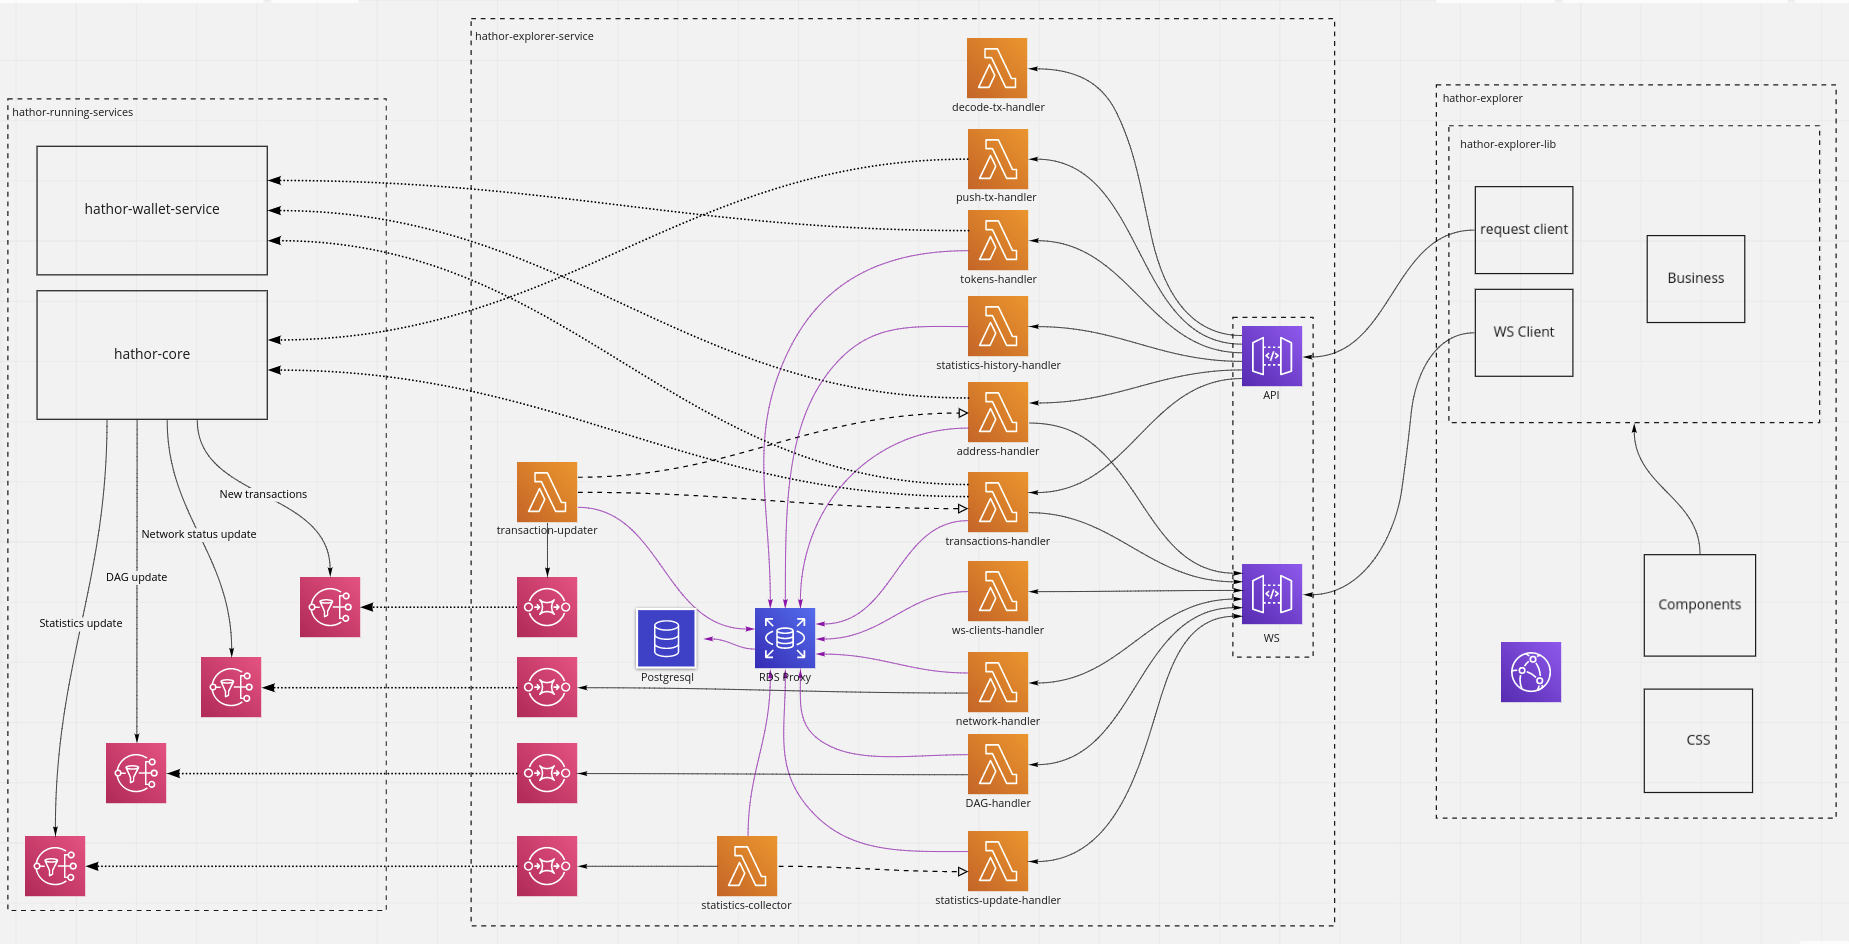
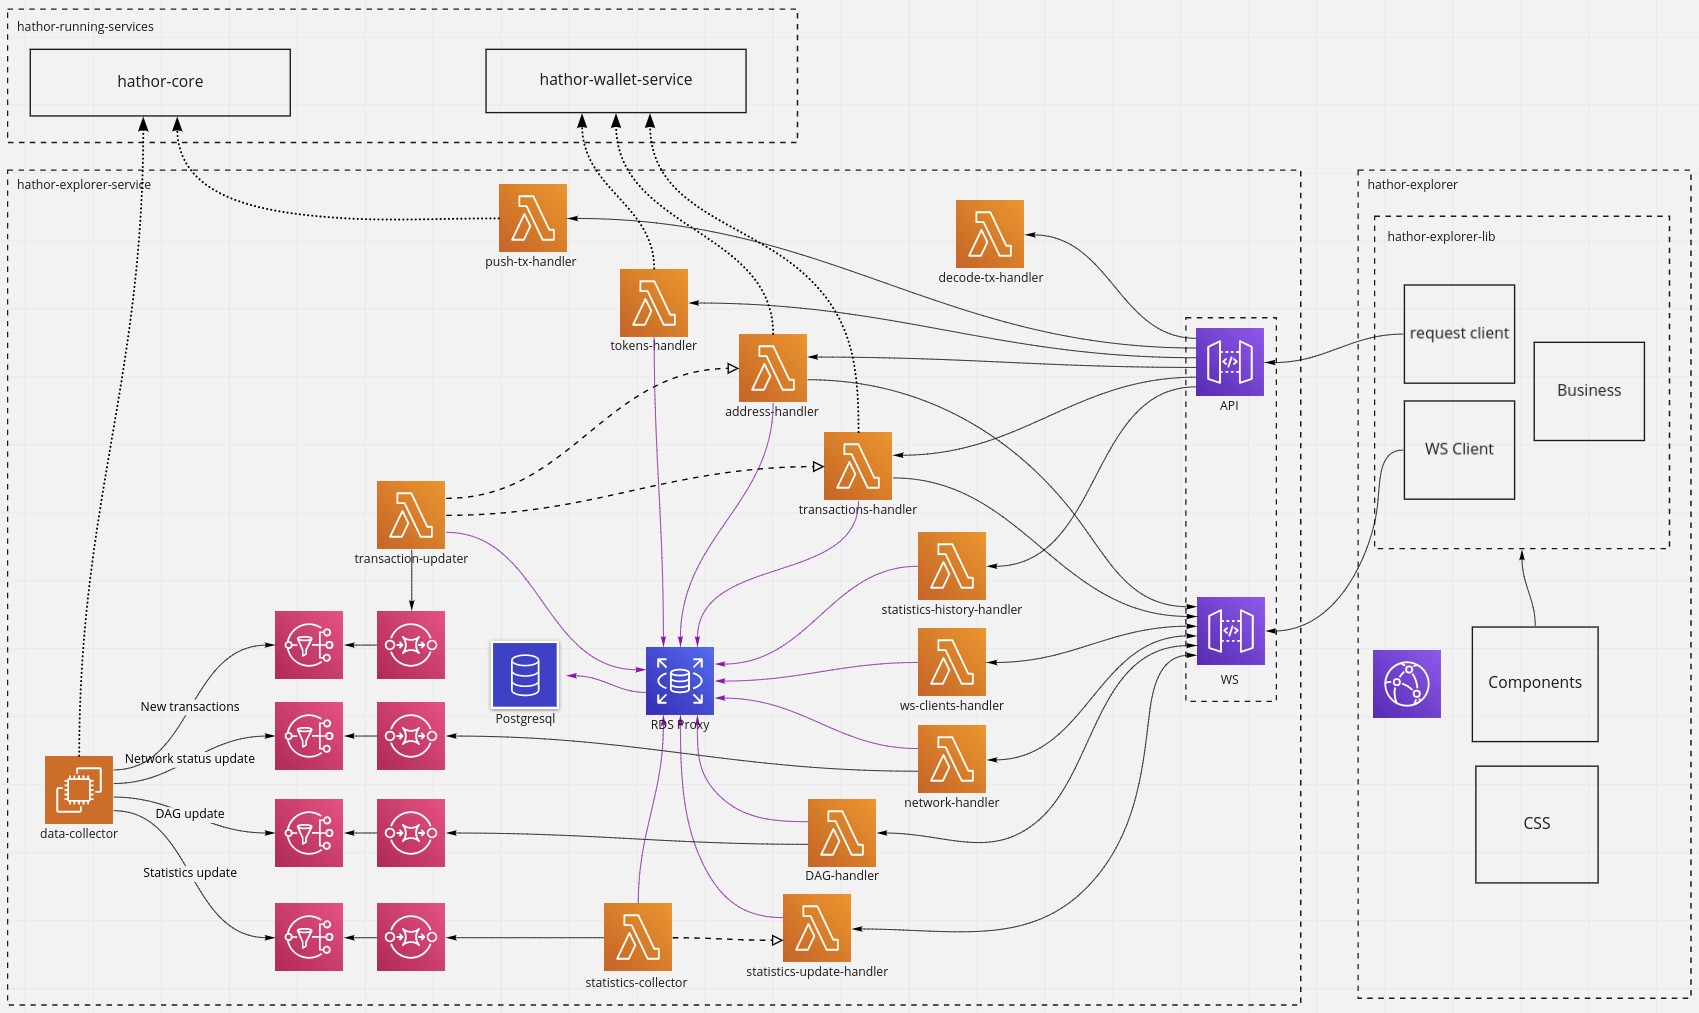
design: adds data-collector

diff --git a/hathor_explorer_v1.md b/hathor_explorer_v1.md
@@ -30,7 +30,7 @@ At first, this new project will be responsible for:
 Deploy will be done by serverless framework, except Mongodb that will run in a EC2 instance
 
 The following image illustrates how the parts of the services will interact:
-![image](https://user-images.githubusercontent.com/698586/117684298-3dc7b200-b18b-11eb-916f-d82209c8d614.png)
+![image](https://user-images.githubusercontent.com/698586/117825867-0cf88300-b246-11eb-914a-c528a5f83b5e.png)
 
 
 **Note:* `hathor-running-services` is an abstraction for services that are already currently running.
@@ -122,7 +122,7 @@ Web Socket Clients handler will handle connections and disconnections from WS on
 ### DAG handler
 [guide-level-explanation/hathor-explorer-service/dag-handler]: #guide-level-explanation/hathor-explorer-service/dag-handler
 
-Every new update on DAG data will be pushed to a SNS. A SQS will be fed from this SNS notifications.
+[`data-collector`](#guide-level-explanation/hathor-explorer-service/data-collector) will listen to DAG updates and send to a SNS. A SQS will be fed from this SNS notifications.
 DAG handler will consume this SQS and send a message for every connection stored in the database subscribed to dag topic.
 
 > **Estimated cost:** $1.50 monthly ($ 0.50 per million update, every second update).
@@ -130,7 +130,7 @@ DAG handler will consume this SQS and send a message for every connection stored
 ### Statistics update handler
 [guide-level-explanation/hathor-explorer-service/statistics-update-handler]: #guide-level-explanation/hathor-explorer-service/statistics-update-handler
 
-Every new update on statistics data will be pushed to a SNS. A SQS will be fed from this SNS notifications.
+[`data-collector`](#guide-level-explanation/hathor-explorer-service/data-collector) will listen to statistics updates and send to a SNS. A SQS will be fed from this SNS notifications.
 Statistics update handler will consume this SQS and send a message for every connection stored in the database subscribed to statistics topic.
 
 > **Estimated cost:** $1.50 monthly ($ 0.50 per million update, every second update).
@@ -138,7 +138,7 @@ Statistics update handler will consume this SQS and send a message for every con
 ### Network handler
 [guide-level-explanation/hathor-explorer-service/network-handler]: #guide-level-explanation/hathor-explorer-service/network-handler
 
-Every new update on network data will be pushed to a SNS. A SQS will be fed from this SNS notifications.
+[`data-collector`](#guide-level-explanation/hathor-explorer-service/data-collector) will listen to network updates and send to a SNS. A SQS will be fed from this SNS notifications.
 Network handler will consume this SQS and send a message for every connection stored in the database subscribed to network topic.
 Network data will also be improved, showing the overall network instead of a single node point of view.
 
@@ -147,13 +147,19 @@ Network data will also be improved, showing the overall network instead of a sin
 ### Statistics Collector
 [guide-level-explanation/hathor-explorer-service/statistics-collector]: #guide-level-explanation/hathor-explorer-service/statistics-collector
 
-Every new hashrate/statistics updates will be pushed to a SNS. A SQS will listen to this SNS and store it.
+[`data-collector`](#guide-level-explanation/hathor-explorer-service/data-collector) will listen to hashrate/statistics updates and send to a SNS. A SQS will listen to this SNS and store it.
 Statistics collector updater will consume this SQS and store data in the database.
 Statistics collector will also trigger [`statistics-update-handler`](#guide-level-explanation/hathor-explorer-service/statistics-update-handler) to update connected clients. 
 
-A new feature will be made on `hathor-core` to push statistics data to SNS. It can be in the same place where this data is pushed to WS.
-
 > **Estimated cost:** $ 0.90 per million transactions.
+
+### Data Collector
+[guide-level-explanation/hathor-explorer-service/data-collector]: #guide-level-explanation/hathor-explorer-service/data-collector
+
+Data Collector will connect to `full-node` WebSockets to listen for updates and send messages to SNS topics.
+For data which doesn't come from WebSocket, polling will be used. 
+
+> **Estimated cost:** $ 14 monthly (`t3.small`).
 ### API gateway
 [guide-level-explanation/hathor-explorer-service/api-gateway]: #guide-level-explanation/hathor-explorer-service/api-gateway
 
@@ -174,7 +180,7 @@ The existing project will not have any big visual modification except by network
 
 Furthermore business logic will be extracted from React components and API calls will be modified, if needed, to fit the new responses from new [guide-level-explanation/hathor-explorer-service](#guide-level-explanation/hathor-explorer-service)
 
-> **Estimated total monthly cost:** $ 62.00 with a huge margin of accesses
+> **Estimated total monthly cost:** $ 76.00 with a huge margin of accesses
 
 # Reference-level explanation
 [reference-level-explanation]: #reference-level-explanation
@@ -480,7 +486,7 @@ Cache on API GW will use `hash` as key.
 
 **SQS:** `hathor-explorer-service-transactions`
 
-**`hathor-core`:** Send Transaction to `SNS` in the following format:
+**`data-collector`:** Send Transaction to `SNS` in the following format:
 ```
 Transaction {
     hash: string
@@ -532,7 +538,7 @@ If the transaction is for token creation, the token information is stored into `
 
 **SQS:** `hathor-explorer-service-dag`
 
-**`hathor-core`:** Send DAG to `SNS` in the following format:
+**`data-collector`:** Send DAG to `SNS` in the following format:
 ```
 DAG {
     hash: string
@@ -569,7 +575,7 @@ Statistic {}
 
 **SQS:** `hathor-explorer-service-network`
 
-**`hathor-core`:** Send Network data to `SNS` in the following format:
+**`data-collector`:** Send Network data to `SNS` in the following format:
 ```
 Network {
     id: string
@@ -603,7 +609,7 @@ Network {
 
 **SQS:** `hathor-explorer-service-statistics`
 
-**`hathor-core`:** Send Statistics to `SNS` in the following format:
+**`data-collector`:** Send Statistics to `SNS` in the following format:
 ```
 Statistic {
     blocks: int
@@ -617,6 +623,23 @@ Statistic {
 **Procedure**:
 
 `statistics-collector` consumes `SQS`, saves hashrate into database and triggers `statistics-update-handler` with received data.
+
+### Data Collector
+[reference-level-explanation/hathor-explorer-service/data-collector]: #reference-level-explanation/hathor-explorer-service/data-collector
+
+Data collector will get data from `full-node` by the following ways
+
+**WebSocket:**
+
+- `/v1a/ws` - Listen to the following events:
+    - `'dashboard:metrics'` - for statistics
+    - `'network:new_tx_accepted'` - for transactions an DAG
+
+**Polling:**
+
+- `/v1a/status` - Fetch Network information 
+
+Every update will be sent to respective SNS.
 
 ### API Gateway
 [reference-level-explanation/hathor-explorer-service/api-gateway]: #reference-level-explanation/hathor-explorer-service/api-gateway
